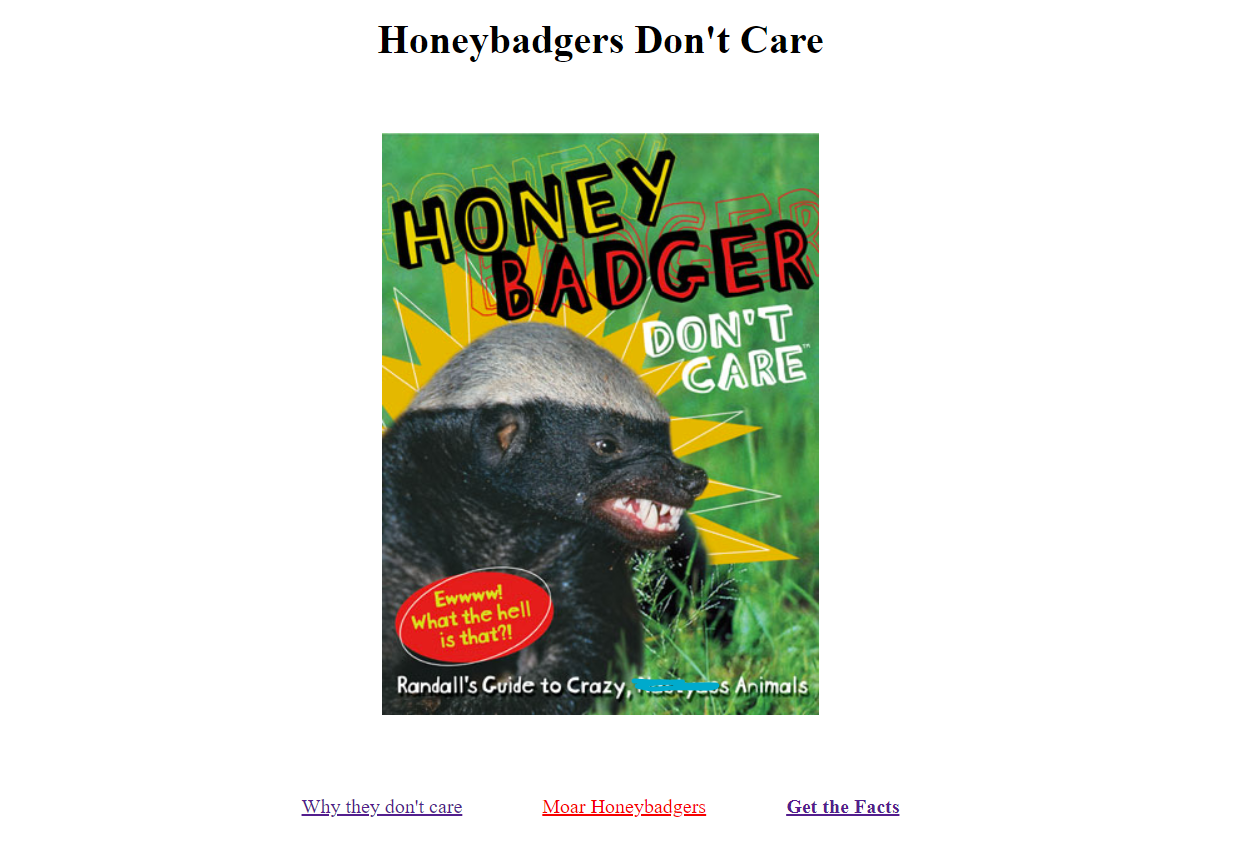
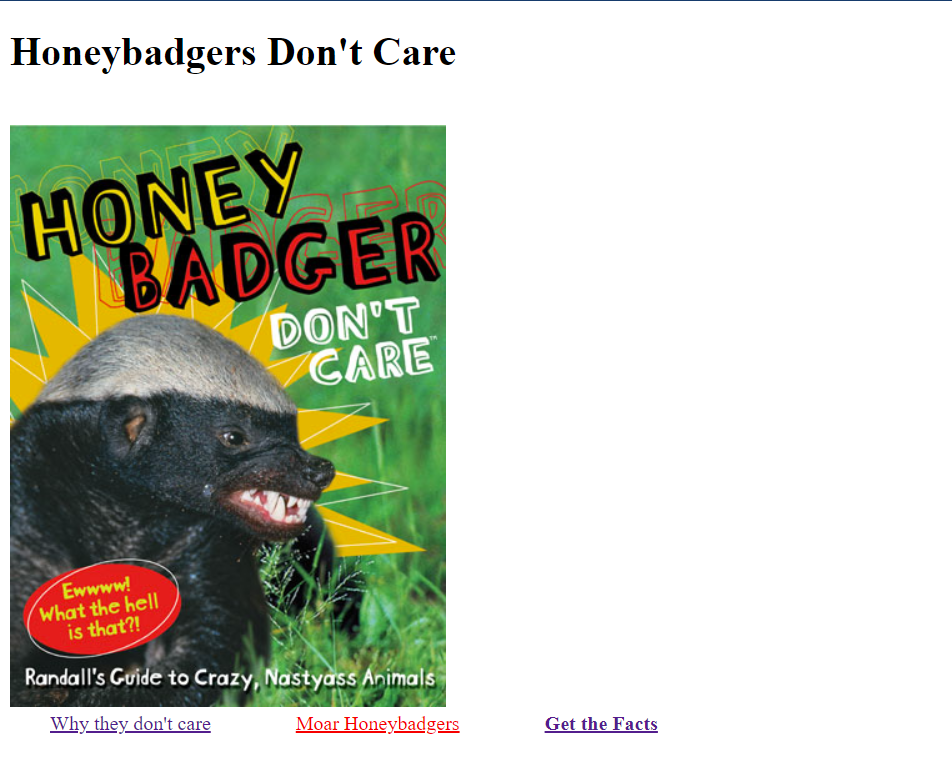
updating resources and images

diff --git a/firstWeek/activities/resources/honeybadger.html b/firstWeek/activities/resources/honeybadger.html
@@ -6,21 +6,6 @@
     <meta name="viewport" content="width=device-width, initial-scale=1.0">
     <title>Honeybadgers</title>
     <style>
-        h1 {
-            text-align: center;
-        }
-
-        div {
-            display: flex;
-            justify-content: center;
-            align-items: center;
-            padding: 1rem;
-        }
-
-        div:nth-of-type(3) {
-            flex-direction: column;
-        }
-
         a {
             padding: 2rem;
         }
@@ -47,16 +32,33 @@
             color: black;
         }
 
+        /* flexbox styling */
+
+        /* h1 {
+            text-align: center;
+        }
+
+        div {
+            display: flex;
+            justify-content: center;
+            align-items: center;
+            padding: 1rem;
+        }
+
+        div:nth-of-type(3) {
+            flex-direction: column;
+        } */
+
         /* Dark Mode */
 
-        body {
+        /* body {
             background-color: black;
             color: white;
         }
 
         tr:nth-child(even)>td:nth-child(2) {
             border-left: solid 2px black;
-        }
+        } */
     </style>
 </head>
 
@@ -64,11 +66,13 @@
     <h1>Honeybadgers Don't Care</h1>
     <br />
     <div>
-        <img src="https://static.hollywoodreporter.com/sites/default/files/2012/01/honey_badger_cover.jpg"
+        <img src="https://i.ibb.co/kJxjVMM/Inkedhoneybadger.jpg"
             alt="picture of Honeybadger not caring" />
     </div>
-    <div style="display: flex; justify-content: center;">
-        <a href="https://animals.howstuffworks.com/mammals/honey-badger.htm#:~:text=%22Their%20thick%20skin%20is%20loose,bite%20the%20animal%20right%20back.">Why they don't care</a>
+    <div>
+        <a
+            href="https://animals.howstuffworks.com/mammals/honey-badger.htm#:~:text=%22Their%20thick%20skin%20is%20loose,bite%20the%20animal%20right%20back.">Why
+            they don't care</a>
         <a style="color: red;" href="https://giphy.com/explore/honey-badger">Moar Honeybadgers</a>
         <a href="https://www.nationalgeographic.com/animals/mammals/h/honey-badger/#:~:text=Honey%20badgers%2C%20also%20known%20as,bulbs%2C%20berries%2C%20and%20fruits."
             target="_blank">Get the Facts</a>

diff --git a/firstWeek/activities/html.md b/firstWeek/activities/html.md
@@ -11,14 +11,14 @@ In a new html file, create the basic structure of an html page including:
     - one is red
     - one opens in a new tab
 
-## Reference Photo
-Basic:
+## Reference Photos
+**Basic:**
 ![HoneyBadger: Basic](./images/basic.png)
 
-Extras:
+**Extras:**
 ![HoneyBadger: Extras](./images/extras.gif)
 
-Dark Mode:
+**Dark Mode:**
 ![HoneyBadger: DarkMode](./images/darkMode.gif)
 
 ### Extras
@@ -29,7 +29,7 @@ Dark Mode:
     - second column with least favorite things about topc
 - embed a youtube video
 - style with flexbox
-- style it in dark mode
+- style it in dark mode (or any color mode you'd like)
 
 ### Hints
 - target="_blank" 

diff --git a/firstWeek/activities/github.md b/firstWeek/activities/github.md
@@ -8,4 +8,5 @@
 
 
 ## links for later
-- [command cheat sheet](https://dev.to/kymiddleton/reference-guide-common-commands-for-terminal-6no)
+- [How to Add SSH Keys](https://www.youtube.com/watch?v=Nf2Ggt3Mwgk&feature=emb_title)
+- [terminal command cheat sheet](https://dev.to/kymiddleton/reference-guide-common-commands-for-terminal-6no)

diff --git a/firstWeek/README.md b/firstWeek/README.md
@@ -23,9 +23,8 @@ Get familiar with Git Bash, VS Code, and Github!
     - open VS Code 
 * **Github:** 
     - Clone a repo
+    - Create a repo
     - Pull and push code
-    - talk about version control 
-        - why is this important?
 
 ### Extras
 - Make a practice site

diff --git a/firstWeek/activities/gitBash.md b/firstWeek/activities/gitBash.md
@@ -1,7 +1,9 @@
 # Git Bash FUNNN
 
-- [ ] make sure it's set up properly!
-- [ ] get to desktop
+Step One: make sure it's set up properly!
+
+Excercises:
+- [ ] navigate to desktop
 - [ ] make a folder
 - [ ] get into that folder
 - [ ] make 2 files
